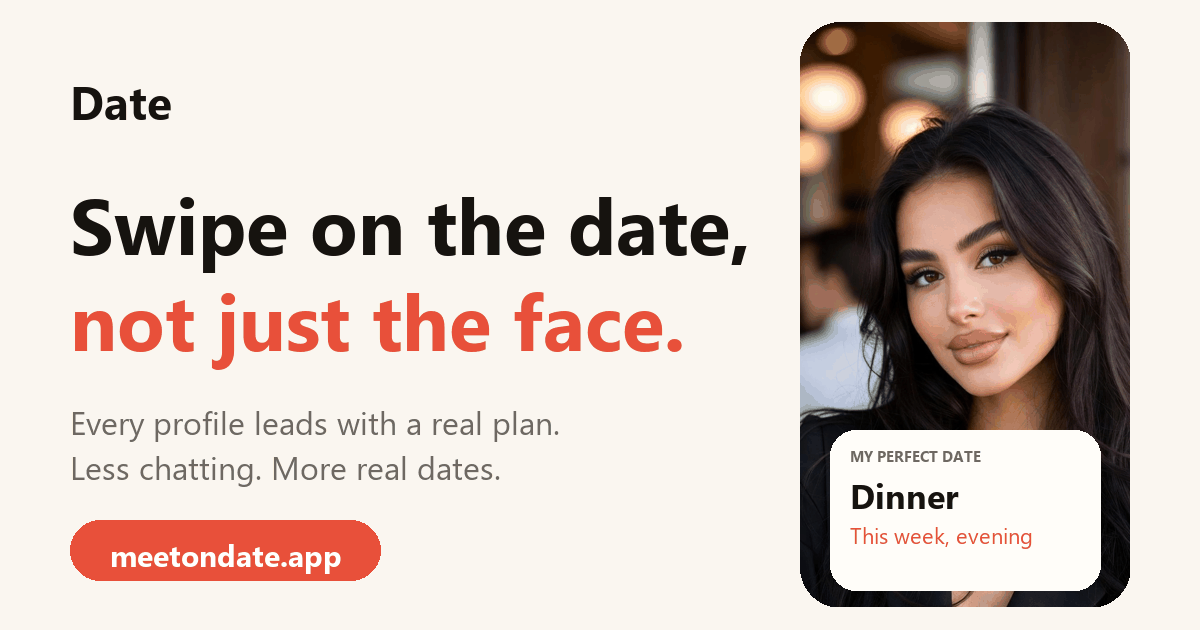
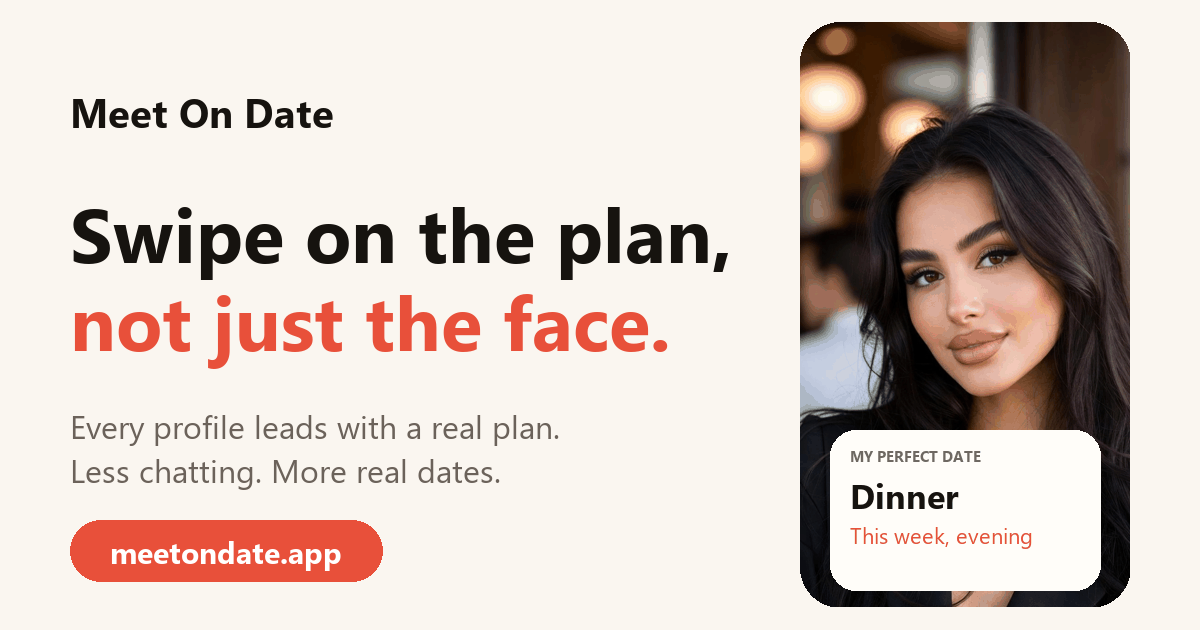
Slogan: swipe on the plan; new share image

diff --git a/index.html b/index.html
@@ -4,9 +4,9 @@
 <meta charset="utf-8">
   <meta name="robots" content="index, follow" />
 <meta name="viewport" content="width=device-width, initial-scale=1">
-<title>Meet On Date: Dating Planner — swipe on the date, not just the face</title>
+<title>Meet On Date: Dating Planner — swipe on the plan, not just the face</title>
 <meta name="description" content="Every profile on Meet On Date shows a real date the person actually wants to go on. Swipe on the plan, match, and meet. Less chatting, more real dates. Porto, 2026.">
-<meta property="og:title" content="Meet On Date: Dating Planner — swipe on the date, not just the face">
+<meta property="og:title" content="Meet On Date: Dating Planner — swipe on the plan, not just the face">
 <meta property="og:description" content="Every profile shows a real date the person actually wants. Swipe on the plan, match, and meet.">
 <meta property="og:type" content="website">
 <meta property="og:url" content="https://meetondate.app/">
@@ -14,9 +14,9 @@
 <meta property="og:image" content="https://meetondate.app/img/og.png">
 <meta property="og:image:width" content="1200">
 <meta property="og:image:height" content="630">
-<meta property="og:image:alt" content="Meet On Date: swipe on the date, not just the face">
+<meta property="og:image:alt" content="Meet On Date: swipe on the plan, not just the face">
 <meta name="twitter:card" content="summary_large_image">
-<meta name="twitter:title" content="Meet On Date: Dating Planner — swipe on the date, not just the face">
+<meta name="twitter:title" content="Meet On Date: Dating Planner — swipe on the plan, not just the face">
 <meta name="twitter:description" content="Every profile shows a real date the person actually wants. Swipe on the plan, match, and meet.">
 <meta name="twitter:image" content="https://meetondate.app/img/og.png">
 <link rel="canonical" href="https://meetondate.app/">
@@ -205,7 +205,7 @@
 <main>
   <div class="wrap hero">
     <div>
-      <h1>Swipe on the date, <em>not just the face.</em></h1>
+      <h1>Swipe on the plan, <em>not just the face.</em></h1>
       <p class="lede">Every profile on Meet On Date leads with a real plan its owner actually wants to go on. You see the evening before you see the small talk — so when you match, you already know what you are saying yes to.</p>
       <div class="cta">
         <a class="btn" href="https://play.google.com/store/apps/details?id=com.meetondate.app">Get it on Google Play</a>

diff --git a/404.html b/404.html
@@ -4,7 +4,7 @@
     <meta charset="utf-8" />
     <meta httpEquiv="X-UA-Compatible" content="IE=edge" />
     <meta name="viewport" content="width=device-width, initial-scale=1, shrink-to-fit=no" />
-    <title>Meet On Date: Dating Planner</title><meta name="description" content="Date: swipe on the date, not just the face. Every profile shows a real plan the person wants to go on."><meta name="theme-color" content="#16130F"><link rel="apple-touch-icon" href="/apple-touch-icon.png"><link rel="manifest" href="/manifest.webmanifest"><style>
+    <title>Meet On Date: Dating Planner</title><meta name="description" content="Date: swipe on the plan, not just the face. Every profile shows a real plan the person wants to go on."><meta name="theme-color" content="#16130F"><link rel="apple-touch-icon" href="/apple-touch-icon.png"><link rel="manifest" href="/manifest.webmanifest"><style>
   body{background:#16130F}
   #boot{position:fixed;inset:0;display:flex;flex-direction:column;align-items:center;justify-content:center;gap:18px;background:#16130F;color:#fff;font:800 44px/1 system-ui,-apple-system,'Segoe UI',sans-serif;letter-spacing:-1px}
   #boot i{display:block;width:26px;height:26px;border-radius:50%;border:3px solid rgba(255,255,255,.25);border-top-color:#E8503A;animation:bootspin .8s linear infinite}

diff --git a/app/404.html b/app/404.html
@@ -4,7 +4,7 @@
     <meta charset="utf-8" />
     <meta httpEquiv="X-UA-Compatible" content="IE=edge" />
     <meta name="viewport" content="width=device-width, initial-scale=1, shrink-to-fit=no" />
-    <title>Meet On Date: Dating Planner</title><meta name="description" content="Date: swipe on the date, not just the face. Every profile shows a real plan the person wants to go on."><meta name="theme-color" content="#16130F"><link rel="apple-touch-icon" href="/apple-touch-icon.png"><link rel="manifest" href="/manifest.webmanifest"><style>
+    <title>Meet On Date: Dating Planner</title><meta name="description" content="Date: swipe on the plan, not just the face. Every profile shows a real plan the person wants to go on."><meta name="theme-color" content="#16130F"><link rel="apple-touch-icon" href="/apple-touch-icon.png"><link rel="manifest" href="/manifest.webmanifest"><style>
   body{background:#16130F}
   #boot{position:fixed;inset:0;display:flex;flex-direction:column;align-items:center;justify-content:center;gap:18px;background:#16130F;color:#fff;font:800 44px/1 system-ui,-apple-system,'Segoe UI',sans-serif;letter-spacing:-1px}
   #boot i{display:block;width:26px;height:26px;border-radius:50%;border:3px solid rgba(255,255,255,.25);border-top-color:#E8503A;animation:bootspin .8s linear infinite}

diff --git a/app/auth-callback/index.html b/app/auth-callback/index.html
@@ -4,7 +4,7 @@
     <meta charset="utf-8" />
     <meta httpEquiv="X-UA-Compatible" content="IE=edge" />
     <meta name="viewport" content="width=device-width, initial-scale=1, shrink-to-fit=no" />
-    <title>Meet On Date: Dating Planner</title><meta name="description" content="Date: swipe on the date, not just the face. Every profile shows a real plan the person wants to go on."><meta name="theme-color" content="#16130F"><link rel="apple-touch-icon" href="/apple-touch-icon.png"><link rel="manifest" href="/manifest.webmanifest"><style>
+    <title>Meet On Date: Dating Planner</title><meta name="description" content="Date: swipe on the plan, not just the face. Every profile shows a real plan the person wants to go on."><meta name="theme-color" content="#16130F"><link rel="apple-touch-icon" href="/apple-touch-icon.png"><link rel="manifest" href="/manifest.webmanifest"><style>
   body{background:#16130F}
   #boot{position:fixed;inset:0;display:flex;flex-direction:column;align-items:center;justify-content:center;gap:18px;background:#16130F;color:#fff;font:800 44px/1 system-ui,-apple-system,'Segoe UI',sans-serif;letter-spacing:-1px}
   #boot i{display:block;width:26px;height:26px;border-radius:50%;border:3px solid rgba(255,255,255,.25);border-top-color:#E8503A;animation:bootspin .8s linear infinite}

diff --git a/app/email/index.html b/app/email/index.html
@@ -4,7 +4,7 @@
     <meta charset="utf-8" />
     <meta httpEquiv="X-UA-Compatible" content="IE=edge" />
     <meta name="viewport" content="width=device-width, initial-scale=1, shrink-to-fit=no" />
-    <title>Meet On Date: Dating Planner</title><meta name="description" content="Date: swipe on the date, not just the face. Every profile shows a real plan the person wants to go on."><meta name="theme-color" content="#16130F"><link rel="apple-touch-icon" href="/apple-touch-icon.png"><link rel="manifest" href="/manifest.webmanifest"><style>
+    <title>Meet On Date: Dating Planner</title><meta name="description" content="Date: swipe on the plan, not just the face. Every profile shows a real plan the person wants to go on."><meta name="theme-color" content="#16130F"><link rel="apple-touch-icon" href="/apple-touch-icon.png"><link rel="manifest" href="/manifest.webmanifest"><style>
   body{background:#16130F}
   #boot{position:fixed;inset:0;display:flex;flex-direction:column;align-items:center;justify-content:center;gap:18px;background:#16130F;color:#fff;font:800 44px/1 system-ui,-apple-system,'Segoe UI',sans-serif;letter-spacing:-1px}
   #boot i{display:block;width:26px;height:26px;border-radius:50%;border:3px solid rgba(255,255,255,.25);border-top-color:#E8503A;animation:bootspin .8s linear infinite}

diff --git a/app/forgot-password/index.html b/app/forgot-password/index.html
@@ -4,7 +4,7 @@
     <meta charset="utf-8" />
     <meta httpEquiv="X-UA-Compatible" content="IE=edge" />
     <meta name="viewport" content="width=device-width, initial-scale=1, shrink-to-fit=no" />
-    <title>Meet On Date: Dating Planner</title><meta name="description" content="Date: swipe on the date, not just the face. Every profile shows a real plan the person wants to go on."><meta name="theme-color" content="#16130F"><link rel="apple-touch-icon" href="/apple-touch-icon.png"><link rel="manifest" href="/manifest.webmanifest"><style>
+    <title>Meet On Date: Dating Planner</title><meta name="description" content="Date: swipe on the plan, not just the face. Every profile shows a real plan the person wants to go on."><meta name="theme-color" content="#16130F"><link rel="apple-touch-icon" href="/apple-touch-icon.png"><link rel="manifest" href="/manifest.webmanifest"><style>
   body{background:#16130F}
   #boot{position:fixed;inset:0;display:flex;flex-direction:column;align-items:center;justify-content:center;gap:18px;background:#16130F;color:#fff;font:800 44px/1 system-ui,-apple-system,'Segoe UI',sans-serif;letter-spacing:-1px}
   #boot i{display:block;width:26px;height:26px;border-radius:50%;border:3px solid rgba(255,255,255,.25);border-top-color:#E8503A;animation:bootspin .8s linear infinite}

diff --git a/app/help/index.html b/app/help/index.html
@@ -4,7 +4,7 @@
     <meta charset="utf-8" />
     <meta httpEquiv="X-UA-Compatible" content="IE=edge" />
     <meta name="viewport" content="width=device-width, initial-scale=1, shrink-to-fit=no" />
-    <title>Meet On Date: Dating Planner</title><meta name="description" content="Date: swipe on the date, not just the face. Every profile shows a real plan the person wants to go on."><meta name="theme-color" content="#16130F"><link rel="apple-touch-icon" href="/apple-touch-icon.png"><link rel="manifest" href="/manifest.webmanifest"><style>
+    <title>Meet On Date: Dating Planner</title><meta name="description" content="Date: swipe on the plan, not just the face. Every profile shows a real plan the person wants to go on."><meta name="theme-color" content="#16130F"><link rel="apple-touch-icon" href="/apple-touch-icon.png"><link rel="manifest" href="/manifest.webmanifest"><style>
   body{background:#16130F}
   #boot{position:fixed;inset:0;display:flex;flex-direction:column;align-items:center;justify-content:center;gap:18px;background:#16130F;color:#fff;font:800 44px/1 system-ui,-apple-system,'Segoe UI',sans-serif;letter-spacing:-1px}
   #boot i{display:block;width:26px;height:26px;border-radius:50%;border:3px solid rgba(255,255,255,.25);border-top-color:#E8503A;animation:bootspin .8s linear infinite}

diff --git a/app/index.html b/app/index.html
@@ -4,7 +4,7 @@
     <meta charset="utf-8" />
     <meta httpEquiv="X-UA-Compatible" content="IE=edge" />
     <meta name="viewport" content="width=device-width, initial-scale=1, shrink-to-fit=no" />
-    <title>Meet On Date: Dating Planner</title><meta name="description" content="Date: swipe on the date, not just the face. Every profile shows a real plan the person wants to go on."><meta name="theme-color" content="#16130F"><link rel="apple-touch-icon" href="/apple-touch-icon.png"><link rel="manifest" href="/manifest.webmanifest"><style>
+    <title>Meet On Date: Dating Planner</title><meta name="description" content="Date: swipe on the plan, not just the face. Every profile shows a real plan the person wants to go on."><meta name="theme-color" content="#16130F"><link rel="apple-touch-icon" href="/apple-touch-icon.png"><link rel="manifest" href="/manifest.webmanifest"><style>
   body{background:#16130F}
   #boot{position:fixed;inset:0;display:flex;flex-direction:column;align-items:center;justify-content:center;gap:18px;background:#16130F;color:#fff;font:800 44px/1 system-ui,-apple-system,'Segoe UI',sans-serif;letter-spacing:-1px}
   #boot i{display:block;width:26px;height:26px;border-radius:50%;border:3px solid rgba(255,255,255,.25);border-top-color:#E8503A;animation:bootspin .8s linear infinite}

diff --git a/app/privacy/index.html b/app/privacy/index.html
@@ -4,7 +4,7 @@
     <meta charset="utf-8" />
     <meta httpEquiv="X-UA-Compatible" content="IE=edge" />
     <meta name="viewport" content="width=device-width, initial-scale=1, shrink-to-fit=no" />
-    <title>Meet On Date: Dating Planner</title><meta name="description" content="Date: swipe on the date, not just the face. Every profile shows a real plan the person wants to go on."><meta name="theme-color" content="#16130F"><link rel="apple-touch-icon" href="/apple-touch-icon.png"><link rel="manifest" href="/manifest.webmanifest"><style>
+    <title>Meet On Date: Dating Planner</title><meta name="description" content="Date: swipe on the plan, not just the face. Every profile shows a real plan the person wants to go on."><meta name="theme-color" content="#16130F"><link rel="apple-touch-icon" href="/apple-touch-icon.png"><link rel="manifest" href="/manifest.webmanifest"><style>
   body{background:#16130F}
   #boot{position:fixed;inset:0;display:flex;flex-direction:column;align-items:center;justify-content:center;gap:18px;background:#16130F;color:#fff;font:800 44px/1 system-ui,-apple-system,'Segoe UI',sans-serif;letter-spacing:-1px}
   #boot i{display:block;width:26px;height:26px;border-radius:50%;border:3px solid rgba(255,255,255,.25);border-top-color:#E8503A;animation:bootspin .8s linear infinite}

diff --git a/app/reset-password/index.html b/app/reset-password/index.html
@@ -4,7 +4,7 @@
     <meta charset="utf-8" />
     <meta httpEquiv="X-UA-Compatible" content="IE=edge" />
     <meta name="viewport" content="width=device-width, initial-scale=1, shrink-to-fit=no" />
-    <title>Meet On Date: Dating Planner</title><meta name="description" content="Date: swipe on the date, not just the face. Every profile shows a real plan the person wants to go on."><meta name="theme-color" content="#16130F"><link rel="apple-touch-icon" href="/apple-touch-icon.png"><link rel="manifest" href="/manifest.webmanifest"><style>
+    <title>Meet On Date: Dating Planner</title><meta name="description" content="Date: swipe on the plan, not just the face. Every profile shows a real plan the person wants to go on."><meta name="theme-color" content="#16130F"><link rel="apple-touch-icon" href="/apple-touch-icon.png"><link rel="manifest" href="/manifest.webmanifest"><style>
   body{background:#16130F}
   #boot{position:fixed;inset:0;display:flex;flex-direction:column;align-items:center;justify-content:center;gap:18px;background:#16130F;color:#fff;font:800 44px/1 system-ui,-apple-system,'Segoe UI',sans-serif;letter-spacing:-1px}
   #boot i{display:block;width:26px;height:26px;border-radius:50%;border:3px solid rgba(255,255,255,.25);border-top-color:#E8503A;animation:bootspin .8s linear infinite}

diff --git a/app/terms/index.html b/app/terms/index.html
@@ -4,7 +4,7 @@
     <meta charset="utf-8" />
     <meta httpEquiv="X-UA-Compatible" content="IE=edge" />
     <meta name="viewport" content="width=device-width, initial-scale=1, shrink-to-fit=no" />
-    <title>Meet On Date: Dating Planner</title><meta name="description" content="Date: swipe on the date, not just the face. Every profile shows a real plan the person wants to go on."><meta name="theme-color" content="#16130F"><link rel="apple-touch-icon" href="/apple-touch-icon.png"><link rel="manifest" href="/manifest.webmanifest"><style>
+    <title>Meet On Date: Dating Planner</title><meta name="description" content="Date: swipe on the plan, not just the face. Every profile shows a real plan the person wants to go on."><meta name="theme-color" content="#16130F"><link rel="apple-touch-icon" href="/apple-touch-icon.png"><link rel="manifest" href="/manifest.webmanifest"><style>
   body{background:#16130F}
   #boot{position:fixed;inset:0;display:flex;flex-direction:column;align-items:center;justify-content:center;gap:18px;background:#16130F;color:#fff;font:800 44px/1 system-ui,-apple-system,'Segoe UI',sans-serif;letter-spacing:-1px}
   #boot i{display:block;width:26px;height:26px;border-radius:50%;border:3px solid rgba(255,255,255,.25);border-top-color:#E8503A;animation:bootspin .8s linear infinite}

diff --git a/app/welcome/index.html b/app/welcome/index.html
@@ -4,7 +4,7 @@
     <meta charset="utf-8" />
     <meta httpEquiv="X-UA-Compatible" content="IE=edge" />
     <meta name="viewport" content="width=device-width, initial-scale=1, shrink-to-fit=no" />
-    <title>Meet On Date: Dating Planner</title><meta name="description" content="Date: swipe on the date, not just the face. Every profile shows a real plan the person wants to go on."><meta name="theme-color" content="#16130F"><link rel="apple-touch-icon" href="/apple-touch-icon.png"><link rel="manifest" href="/manifest.webmanifest"><style>
+    <title>Meet On Date: Dating Planner</title><meta name="description" content="Date: swipe on the plan, not just the face. Every profile shows a real plan the person wants to go on."><meta name="theme-color" content="#16130F"><link rel="apple-touch-icon" href="/apple-touch-icon.png"><link rel="manifest" href="/manifest.webmanifest"><style>
   body{background:#16130F}
   #boot{position:fixed;inset:0;display:flex;flex-direction:column;align-items:center;justify-content:center;gap:18px;background:#16130F;color:#fff;font:800 44px/1 system-ui,-apple-system,'Segoe UI',sans-serif;letter-spacing:-1px}
   #boot i{display:block;width:26px;height:26px;border-radius:50%;border:3px solid rgba(255,255,255,.25);border-top-color:#E8503A;animation:bootspin .8s linear infinite}
